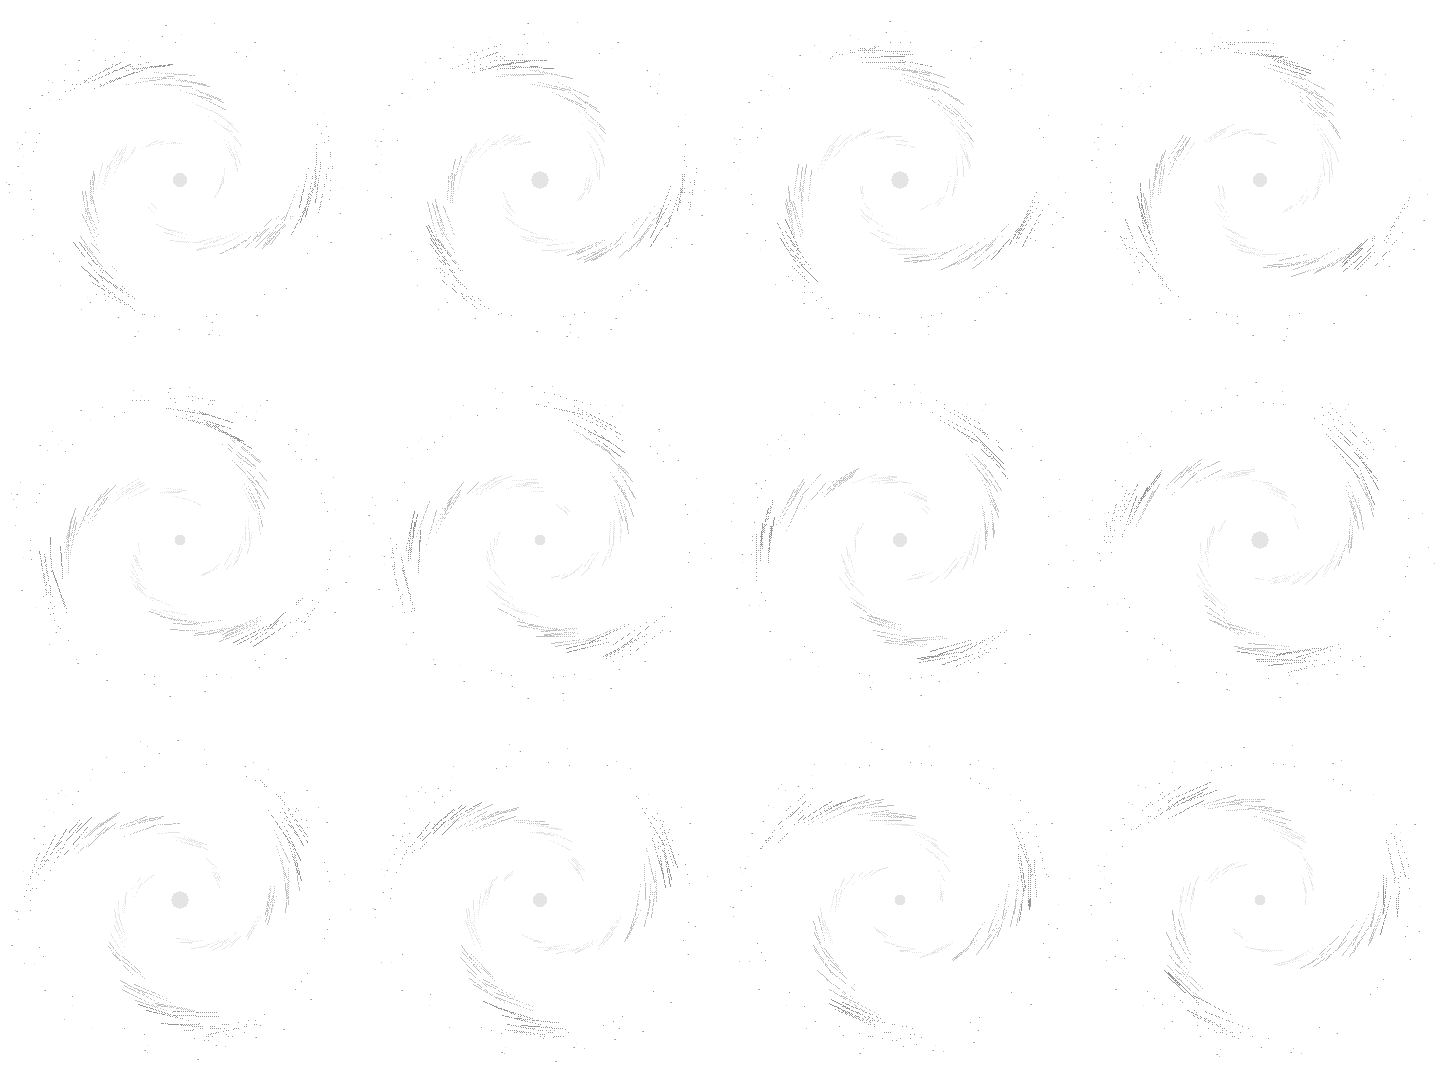
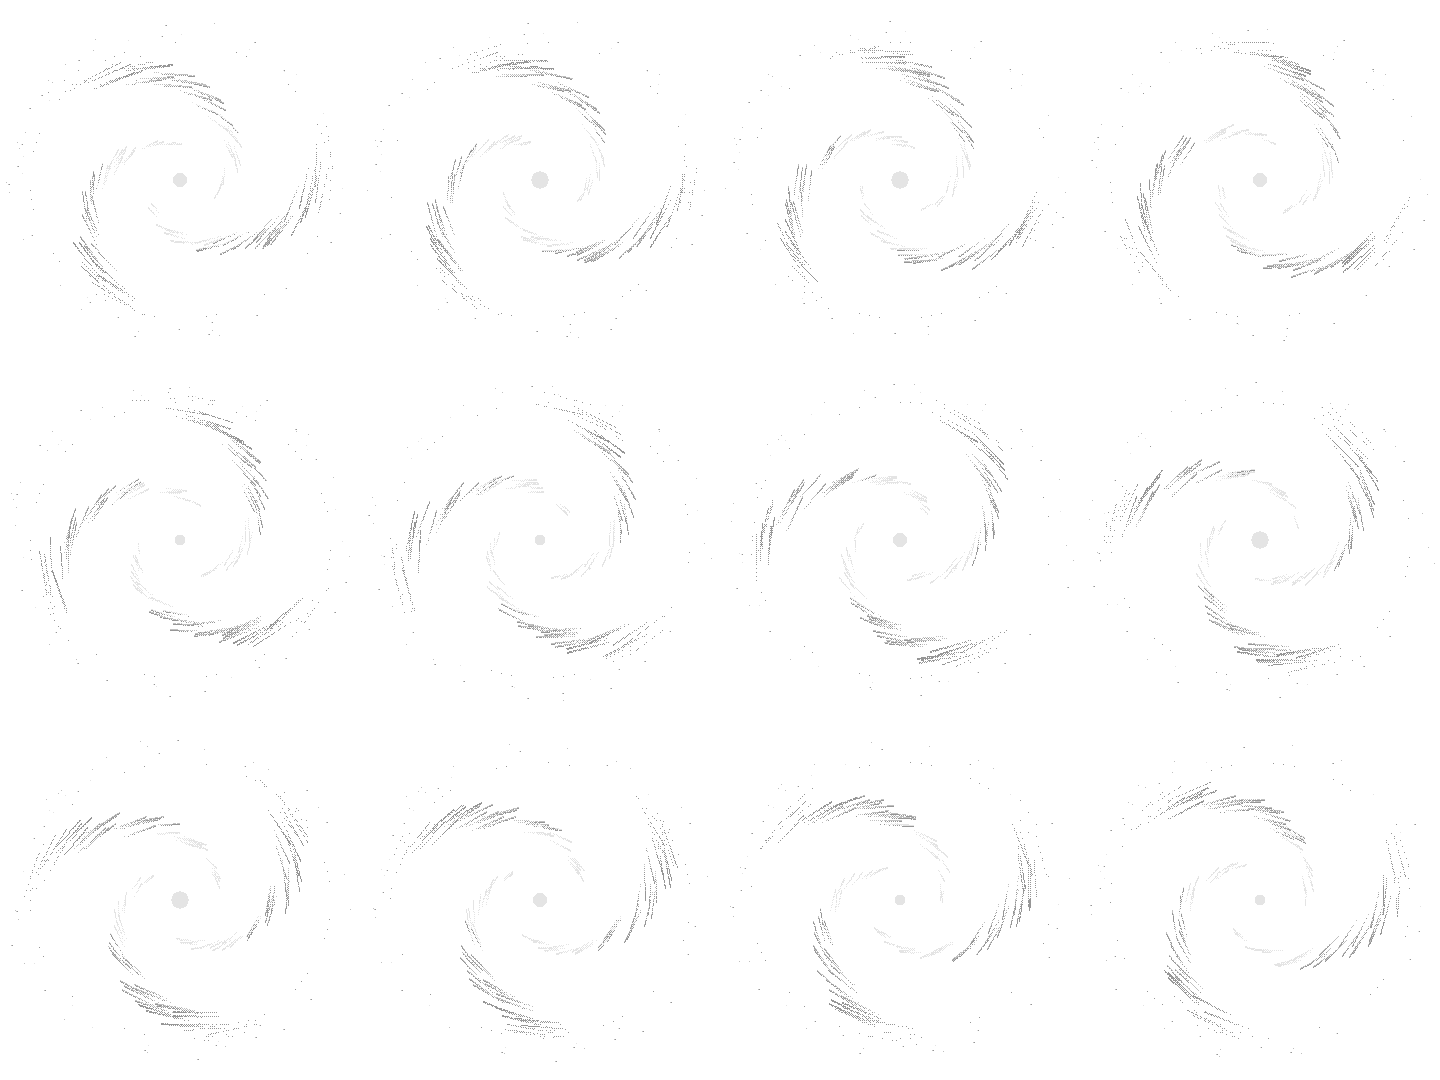
궁수 소용돌이 화살 이펙트: 나선 소용돌이 + 큰 화살 도착 시 터짐

diff --git a/tools/pixelfx/elem-vortex.js b/tools/pixelfx/elem-vortex.js
@@ -1,0 +1,84 @@
+// pixelfx 원본 (https://github.com/patch-gg/pixelfx 의 src/fx/arcane/ 에 넣고 node tools/render.mjs arcane/elem-vortex 로 그림)
+// 게임용 PNG (4칸씩 여러 줄): vortex.png {"layer":"color"} · vortex_core.png {"layer":"core"}
+import { fit, WHITE } from "../../core/index.js";
+
+// 궁수 소용돌이 (반복): 범위 안의 알갱이가 나선 팔을 그리며 중심으로 빨려 들어가고,
+// 범위 밖에서는 알갱이가 중력 없이 천천히 퍼져 나감. 원점 = 소용돌이 중심. 1 칸 = 화면 2px (반지름 150 = 300px)
+// 두 겹: layer "color" (밝은 무채색, 원소 색을 곱함), layer "core" (흰 심, 색 안 입힘)
+export const meta = {
+  name: "Element Vortex",
+  desc: "A true whirlpool for tinting: motes spiral in along three arms to a bright eye; outside its rim, loose motes drift slowly away with no gravity.",
+  tags: ["arcane", "vortex", "whirlpool", "pull", "loop", "tint"],
+  size: [360, 360],
+  origin: [180, 180],
+  duration: 0.6,
+  loop: true,
+  fps: 20,
+  bg: "dark",
+  options: {
+    palette: ["#6a6a6a", "#969696", "#c0c0c0", "#e4e4e4", "#ffffff"],
+    layer: "both",
+    seed: 1,
+  },
+};
+
+export const R = 150;
+const hash = (a, b) => { let h = (a * 374761393 + b * 668265263) | 0; h = Math.imul(h ^ (h >>> 13), 1274126177); return ((h ^ (h >>> 16)) >>> 0) / 4294967296; };
+const frac = (v) => v - Math.floor(v);
+
+/** 소용돌이 팔 (터짐에서도 줄어드는 모습으로 씀). k = 크기 배율, spin = 추가 회전 */
+export function drawSwirl(p, ph, C, color, core, k = 1, spin = 0, alpha = 1) {
+  const ARMS = 3, PER = 46;
+  const rot = ph * Math.PI * 2 * (1 / 3) + spin; // 한 바퀴의 1/3 마다 같은 모양 (팔 3개) → 이음매 없음
+  for (let a = 0; a < ARMS; a++) {
+    for (let i = 0; i < PER; i++) {
+      const id = a * PER + i;
+      const u = frac(ph + i / PER + hash(id, 1) * 0.04);      // 0 = 바깥, 1 = 중심
+      const r = R * k * Math.pow(1 - u, 0.85) * (0.92 + hash(id, 2) * 0.16);
+      if (r < 3) continue;
+      const th = rot + (a / ARMS) * Math.PI * 2 + 3.4 * Math.log(R / Math.max(r / k, 4)) * 0.55 + (hash(id, 3) - 0.5) * 0.35;
+      const x = Math.cos(th) * r, y = Math.sin(th) * r * 0.92;
+      // 진행 방향(안쪽으로 감기는 방향)으로 짧은 꼬리
+      const tl = 2 + Math.round((1 - u) * 5 * k);
+      const tx = Math.cos(th - 0.35) * (r + tl), ty = Math.sin(th - 0.35) * (r + tl) * 0.92;
+      const near = 1 - r / (R * k);
+      const c = near > 0.75 ? C[4] : near > 0.45 ? C[3] : near > 0.2 ? C[2] : C[1];
+      const al = Math.min(1, u * 6) * alpha;
+      if (color) { p.line(Math.round(x), Math.round(y), Math.round(tx), Math.round(ty), c, (q) => (1 - q * 0.8) * al); if (near > 0.1) p.line(Math.round(x), Math.round(y) + 1, Math.round(tx), Math.round(ty) + 1, near > 0.5 ? c : C[1], (q) => (1 - q) * al * 0.9); }
+      if (core && near > 0.6 && hash(id, 4) < 0.6) p.dot(Math.round(x), Math.round(y), WHITE, al);
+    }
+  }
+}
+
+export function draw(p, t, o) {
+  const C = fit(o.palette, 5), ph = t / meta.duration;
+  const color = o.layer !== "core", core = o.layer !== "color";
+
+  // 범위 테두리: 끊긴 점선 원이 천천히 돔
+  if (color) for (let i = 0; i < 90; i++) {
+    const th = (i / 90) * Math.PI * 2 + ph * (Math.PI * 2 / 90) * 3;
+    if (i % 6 > 2) continue;
+    p.dot(Math.round(Math.cos(th) * R), Math.round(Math.sin(th) * R * 0.92), C[1], 0.7);
+  }
+
+  drawSwirl(p, ph, C, color, core);
+
+  // 중심 눈: 밝은 원, 살짝 맥박
+  const pulse = 1 + 0.25 * Math.sin(ph * Math.PI * 2 * 2);
+  if (color) p.circle(0, 0, 7 * pulse, C[3]);
+  if (core) p.circle(0, 0, 4 * pulse, WHITE);
+
+  // 범위 밖: 알갱이가 중력 없이 천천히 퍼져 나감
+  const M = 64;
+  for (let i = 0; i < M; i++) {
+    const u = frac(ph + i / M + hash(i, 21) * 0.3);
+    const th = hash(i, 22) * Math.PI * 2 + u * 0.15;
+    const r = R + 4 + u * 24;
+    const x = Math.round(Math.cos(th) * r), y = Math.round(Math.sin(th) * r * 0.92);
+    const al = u < 0.2 ? u / 0.2 : 1 - (u - 0.2) / 0.8;
+    // 나타날 땐 흐리게, 멀어지면 깜빡이며 사라짐
+    if (u < 0.12 || (u > 0.7 && hash(i * 3 + Math.floor(ph * 12), 25) < (u - 0.7) / 0.3)) continue;
+    if (color) { p.px(x, y, u < 0.4 ? C[3] : C[2]); if (hash(i, 23) < 0.4) p.px(x + 1, y, C[1]); }
+    if (core && u < 0.25 && hash(i, 24) < 0.4) p.dot(x, y, WHITE, al);
+  }
+}

diff --git a/tools/pixelfx/elem-vortex-burst.js b/tools/pixelfx/elem-vortex-burst.js
@@ -1,0 +1,76 @@
+// pixelfx 원본 (https://github.com/patch-gg/pixelfx 의 src/fx/arcane/ 에 elem-vortex.js 와 함께 넣고 node tools/render.mjs arcane/elem-vortex-burst 로 그림)
+// 게임용 PNG (4칸씩 여러 줄): vortex_burst.png {"layer":"color"} · vortex_burst_core.png {"layer":"core"}
+import { fit, clamp, ease, WHITE } from "../../core/index.js";
+import { drawSwirl, R } from "./elem-vortex.js";
+
+// 궁수 소용돌이 터짐 (한 번): 화살이 중심에 닿으면 소용돌이가 빠르게 줄어들며 사라지고,
+// 충격파 고리가 퍼지고 파편이 튀어 나가다 느려지며 살짝 떨어짐. 원점 = 중심. 1 칸 = 화면 2px
+export const meta = {
+  name: "Element Vortex Burst",
+  desc: "The whirlpool collapses fast into its eye and bursts: a white flash, a shockwave ring racing out, and shards that fly, drag to a stop and sag.",
+  tags: ["arcane", "vortex", "burst", "shockwave", "one-shot", "tint"],
+  size: [360, 360],
+  origin: [180, 180],
+  duration: 0.55,
+  loop: false,
+  fps: 30,
+  bg: "dark",
+  options: {
+    palette: ["#6a6a6a", "#969696", "#c0c0c0", "#e4e4e4", "#ffffff"],
+    layer: "both",
+    seed: 1,
+  },
+};
+
+const SHRINK = 0.12, RING = 0.34;
+const hash = (a, b) => { let h = (a * 374761393 + b * 668265263) | 0; h = Math.imul(h ^ (h >>> 13), 1274126177); return ((h ^ (h >>> 16)) >>> 0) / 4294967296; };
+
+export function draw(p, t, o) {
+  if (t >= meta.duration) return;
+  const C = fit(o.palette, 5);
+  const color = o.layer !== "core", core = o.layer !== "color";
+
+  // 소용돌이가 빠르게 감기며 줄어듦
+  if (t < SHRINK) {
+    const k = 1 - ease.inQuad(t / SHRINK);
+    drawSwirl(p, t / 0.6, C, color, core, k, t * 40, 1);
+  }
+
+  // 번쩍: 중심 흰 원이 커졌다 사라짐
+  if (t < 0.14) {
+    const r = 6 + 14 * ease.outCubic(t / 0.06) * (1 - clamp((t - 0.06) / 0.08, 0, 1));
+    if (color) p.circle(0, 0, r + 2, C[3]);
+    if (core) p.circle(0, 0, r, WHITE);
+  }
+
+  // 충격파 고리
+  if (t < RING) {
+    const u = t / RING, r = 8 + (R - 8) * ease.outCubic(u), w = Math.max(2, Math.round(8 * (1 - u)));
+    for (let i = 0; i < 220; i++) {
+      const th = (i / 220) * Math.PI * 2;
+      for (let j = 0; j < w; j++) {
+        const rr = r - j, x = Math.round(Math.cos(th) * rr), y = Math.round(Math.sin(th) * rr * 0.92);
+        if (color) { if (j === 0 && u < 0.75) p.px(x, y, C[4]); else p.dot(x, y, j < 2 ? C[3] : C[1], (1 - u) * (1 - j / (w + 1))); }
+        if (core && j === 1 && u < 0.6) p.px(x, y, WHITE);
+      }
+    }
+  }
+
+  // 파편: 바깥으로 튀어 나가다 공기 저항으로 느려지고 살짝 떨어짐
+  const N = 84, DRAG = 4.5, G = 160;
+  for (let i = 0; i < N; i++) {
+    const t0 = hash(i, 1) * 0.04, a = t - t0;
+    const life = 0.28 + hash(i, 2) * 0.24;
+    if (a < 0 || a > life) continue;
+    const th = hash(i, 3) * Math.PI * 2, v = 260 + hash(i, 4) * 420;
+    const d = (v / DRAG) * (1 - Math.exp(-DRAG * a));
+    const x = Math.cos(th) * d, y = Math.sin(th) * d * 0.92 + 0.5 * G * a * a;
+    // 꼬리: 지금 속도 방향 반대로
+    const sp = v * Math.exp(-DRAG * a), vx = Math.cos(th) * sp, vy = Math.sin(th) * sp * 0.92 + G * a;
+    const n = Math.hypot(vx, vy) || 1, tl = Math.min(16, 2 + sp * 0.035);
+    const k = a / life, c = k < 0.3 ? C[4] : k < 0.6 ? C[3] : C[2];
+    if (color) p.line(Math.round(x), Math.round(y), Math.round(x - (vx / n) * tl), Math.round(y - (vy / n) * tl), c, (q) => (1 - q) * (1 - k * 0.6));
+    if (color && hash(i, 5) < 0.4) p.px(Math.round(x) + 1, Math.round(y), c);
+    if (core && k < 0.35) p.px(Math.round(x), Math.round(y), WHITE);
+  }
+}

diff --git a/document/업데이트노트.md b/document/업데이트노트.md
@@ -6,6 +6,7 @@
 ---
 
 ## 2026-11-19
+- 궁수 소용돌이 화살 이펙트: 범위 안은 나선으로 빨려 드는 소용돌이, 밖은 알갱이가 천천히 퍼짐. 큰 화살이 중심에 닿으면 소용돌이가 줄어들며 충격파와 파편으로 터지고 끝남
 - 궁수 화살 그림: 기본 화살(사슬 화살 포함)과 큰 화살을 pixelfx 로 그림. 흰 심 + 원소 색, 큰 화살은 촉에서 나온 알갱이가 몸통을 따라 흐르다 깃에서 퍼짐
 - 검사 오의 천붕 이펙트: 새 그림(모으기 + 연속 베기 5칸)을 판정 5번 박자에 맞춰 재생. 연기는 원소 색, 하얀 베기 선은 흰색 그대로
 - 검사 회류참 이펙트: 뒤로 미끄러지는 동안 손에서 나온 검기 하나가 부드럽게 휘며 따라옴 (얇게→굵게→얇게), 꼬리는 가루로 흩어지고 도착 직전에 사라짐. 발밑에 먼지 (흰 심 + 원소 색 테두리)

diff --git a/document/기획서_v0.1.md b/document/기획서_v0.1.md
@@ -703,7 +703,7 @@
 | 텔레포트 | - | 3 | 3 | 거리 220 (↑ 위로 160) |
 | 마법 화살 | 0.8 ~ 3.2 | 0 | 0 | 1초 풀차징, 사거리 200 ~ 800 (기본 공격도 같음). 쏜 직후 바로 방향 전환 |
 | 사슬 화살 | 1.4 관통 | 3.5 | 3 | 사거리 540, 이동기, 조준 각도 초당 4.0 라디안 |
-| 소용돌이 화살 | 3.2 관통 | 10 | 30 | 거리 270, 끌어당기는 반지름 300 (예전 210) |
+| 소용돌이 화살 | 3.2 관통 | 10 | 30 | 거리 270, 끌어당기는 반지름 300 (예전 210). 큰 화살이 중심에 닿으면 소용돌이가 터지며 끝남 (약 0.6초, 예전 1초) |
 | 화살비 | 0.75 × 7 | 12 | 33 | 폭 320 |
 | 후방 도약 | 1.2 × 최대 3마리 | 3.5 | 3 | 뒤로 260, 높이 90, 0.5초, 앞 460 안 |
 
